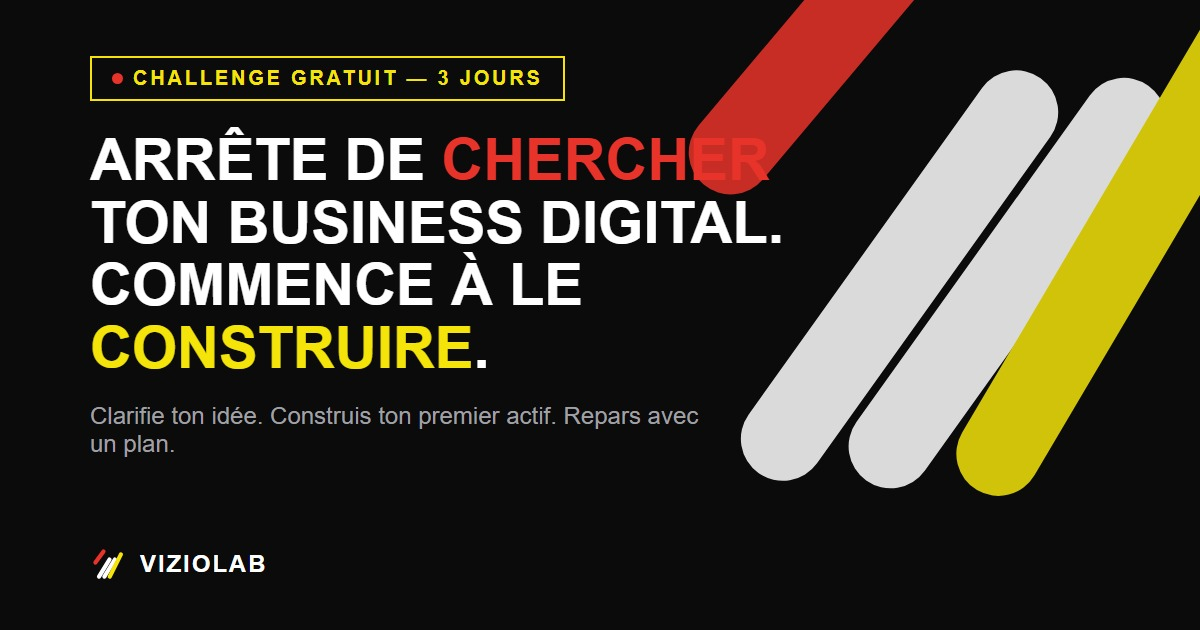
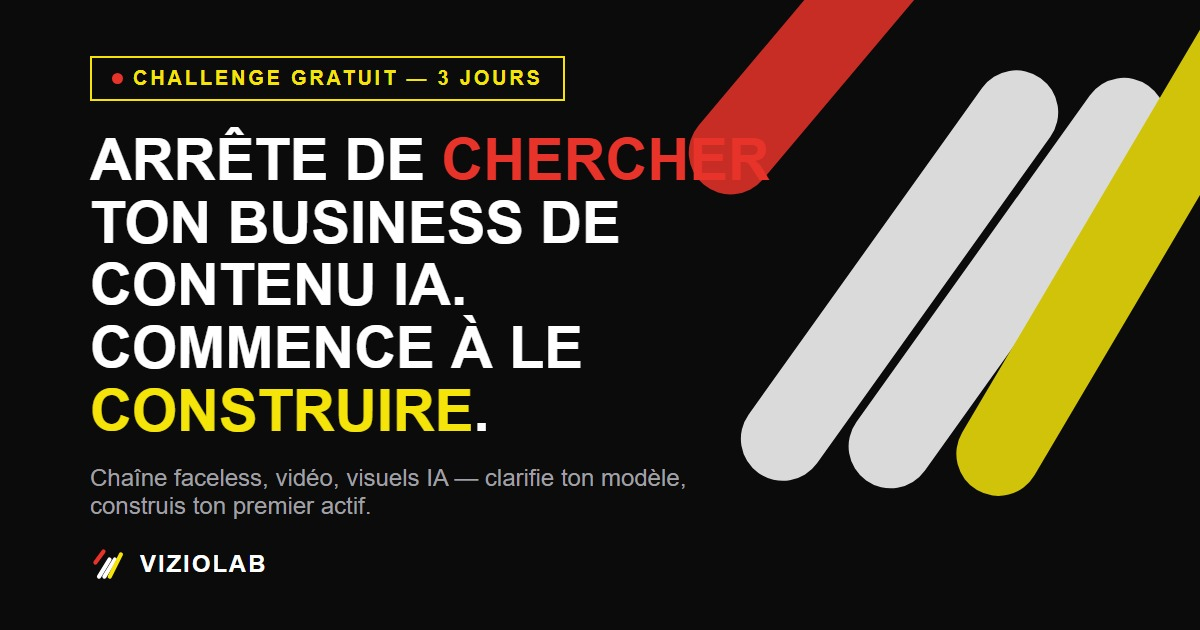
Resserre le positionnement sur le contenu IA (video, faceless, visuels)
Le copy generique "business digital" etait trop flou. Hero, section probleme,
section IA, "pour qui" et FAQ nomment desormais explicitement les leviers reels de
VizioLab : creation video/visuels par IA et business models type chaines YouTube
faceless. Image Open Graph regeneree avec le nouveau headline.

Changed region(s): [[0.0617, 0.3921, 0.5858, 0.8143], [0.4933, 0.3016, 0.6475, 0.3921]]

diff --git a/index.html b/index.html
@@ -3,13 +3,13 @@
 <head>
 <meta charset="UTF-8">
 <meta name="viewport" content="width=device-width, initial-scale=1.0">
-<title>Challenge VizioLab — 3 jours pour construire ton projet digital</title>
-<meta name="description" content="Challenge gratuit de 3 jours : clarifie ton idée, construis ton premier actif digital avec l'IA et repars avec une feuille de route concrète. 100% en ligne, 90 minutes par jour.">
+<title>Challenge VizioLab — 3 jours pour lancer ton business de contenu IA</title>
+<meta name="description" content="Challenge gratuit de 3 jours : clarifie ton modèle (chaîne YouTube faceless, contenu vidéo, visuels IA), construis ton premier actif avec l'IA et repars avec une feuille de route. 100% en ligne, 90 minutes par jour.">
 <link rel="canonical" href="https://viziolab.example/">
 
 <meta property="og:type" content="website">
-<meta property="og:title" content="Challenge VizioLab — 3 jours pour construire ton projet digital">
-<meta property="og:description" content="En 3 jours, clarifie ton idée, construis ton premier actif digital et repars avec une feuille de route concrète pour passer à l'action avec l'IA.">
+<meta property="og:title" content="Challenge VizioLab — 3 jours pour lancer ton business de contenu IA">
+<meta property="og:description" content="En 3 jours, clarifie ton modèle (faceless, vidéo, visuels), construis ton premier actif avec l'IA et repars avec une feuille de route concrète.">
 <meta property="og:image" content="/assets/og-image.jpg">
 <meta property="og:locale" content="fr_FR">
 <meta name="twitter:card" content="summary_large_image">
@@ -72,11 +72,11 @@
   <div class="relative mx-auto max-w-3xl text-center">
     <span class="badge-live mx-auto"><span class="badge-live__dot"></span>Challenge gratuit — 3 jours</span>
     <h1 class="mt-6 font-display text-4xl uppercase leading-[1.08] tracking-tight sm:text-6xl">
-      Arrête de <span class="text-viz-red">chercher</span> ton business digital.<br>
+      Arrête de <span class="text-viz-red">chercher</span> ton business de contenu IA.<br>
       Commence à le <span class="text-viz-yellow">construire</span>.
     </h1>
     <p class="mx-auto mt-6 max-w-xl font-body text-lg text-viz-fog">
-      En 3 jours, passe de 10 idées dans ta tête à 1 projet entre tes mains&nbsp;: clarifie ton idée, construis ton premier actif digital, et découvre comment utiliser l'IA pour accélérer ton passage à l'action.
+      En 3 jours, passe de 10 idées de business IA (chaîne YouTube faceless, contenu vidéo, visuels générés par IA...) à 1 projet entre tes mains&nbsp;: clarifie ton modèle, construis ton premier actif, et repars avec un plan d'action.
     </p>
     <div class="mt-8 flex justify-center">
       <button type="button" class="btn-primary text-base" data-open-form data-track="cta_click" data-track-label="hero">Je rejoins le challenge gratuit</button>
@@ -93,16 +93,16 @@
     </h2>
     <ul class="mt-10 space-y-4">
       <li class="flex items-start gap-4 border-l-2 border-viz-red/60 bg-white/[0.02] px-4 py-3">
-        <span class="font-body text-viz-fog">Tu regardes des vidéos sur le business digital, mais tu ne passes pas à l'action.</span>
+        <span class="font-body text-viz-fog">Tu regardes des chaînes YouTube faceless ou des comptes IA qui cartonnent, mais tu ne sais pas par où commencer pour reproduire ça.</span>
       </li>
       <li class="flex items-start gap-4 border-l-2 border-viz-red/60 bg-white/[0.02] px-4 py-3">
-        <span class="font-body text-viz-fog">Tu as 10 idées et tu ne sais pas laquelle choisir.</span>
+        <span class="font-body text-viz-fog">Tu as 10 idées de business IA (vidéo, visuels, contenu) et tu ne sais pas laquelle choisir.</span>
       </li>
       <li class="flex items-start gap-4 border-l-2 border-viz-red/60 bg-white/[0.02] px-4 py-3">
         <span class="font-body text-viz-fog">Tu commences plusieurs projets et tu n'en termines aucun.</span>
       </li>
       <li class="flex items-start gap-4 border-l-2 border-viz-red/60 bg-white/[0.02] px-4 py-3">
-        <span class="font-body text-viz-fog">Tu veux utiliser l'IA, mais tu ne sais pas quoi automatiser.</span>
+        <span class="font-body text-viz-fog">Tu veux utiliser l'IA pour créer du contenu, mais tu ne sais pas quels outils ni quel workflow.</span>
       </li>
       <li class="flex items-start gap-4 border-l-2 border-viz-red/60 bg-white/[0.02] px-4 py-3">
         <span class="font-body text-viz-fog">Tu publies sur les réseaux sans véritable stratégie.</span>
@@ -183,7 +183,7 @@
       <div class="viz-card flex-1 p-6">
         <p class="eyebrow text-white/70">Jour 2 — Construis</p>
         <h3 class="mt-2 font-heading text-xl font-bold">Transforme ton idée en premier actif digital</h3>
-        <p class="mt-4 font-body text-sm text-white/75">Tu apprends à utiliser l'IA pour transformer ton idée en premier livrable concret&nbsp;: contenu, offre, produit digital, concept YouTube, branding, service ou prototype, selon ton projet.</p>
+        <p class="mt-4 font-body text-sm text-white/75">Tu apprends à utiliser l'IA pour transformer ton idée en premier livrable concret&nbsp;: vidéo, concept de chaîne YouTube faceless, visuels, contenu, offre ou prototype, selon ton projet.</p>
         <p class="mt-5 border-t border-white/10 pt-4 font-heading text-sm font-bold text-viz-yellow">Livrable — ton premier actif digital</p>
       </div>
     </div>
@@ -239,14 +239,15 @@
 <section id="ia" class="reveal border-t border-white/10 px-5 py-20">
   <div class="mx-auto max-w-3xl">
     <h2 class="text-center font-heading text-2xl font-bold uppercase sm:text-3xl">L'IA comme accélérateur, pas comme raccourci</h2>
+    <p class="mx-auto mt-3 max-w-xl text-center font-body text-viz-fog">Contenu vidéo, chaînes faceless, visuels, montage — l'IA change ce que tu peux produire seul, en peu de temps.</p>
     <div class="mt-10 grid grid-cols-2 gap-3 sm:grid-cols-4">
-      <div class="border border-white/10 bg-white/[0.02] p-4 text-center font-body text-sm text-white/80">Trouver des angles</div>
-      <div class="border border-white/10 bg-white/[0.02] p-4 text-center font-body text-sm text-white/80">Structurer une idée</div>
-      <div class="border border-white/10 bg-white/[0.02] p-4 text-center font-body text-sm text-white/80">Produire du contenu</div>
-      <div class="border border-white/10 bg-white/[0.02] p-4 text-center font-body text-sm text-white/80">Créer des visuels</div>
+      <div class="border border-white/10 bg-white/[0.02] p-4 text-center font-body text-sm text-white/80">Écrire des scripts vidéo</div>
+      <div class="border border-white/10 bg-white/[0.02] p-4 text-center font-body text-sm text-white/80">Générer des voix off</div>
+      <div class="border border-white/10 bg-white/[0.02] p-4 text-center font-body text-sm text-white/80">Créer des visuels et vignettes</div>
+      <div class="border border-white/10 bg-white/[0.02] p-4 text-center font-body text-sm text-white/80">Structurer un concept de chaîne</div>
       <div class="border border-white/10 bg-white/[0.02] p-4 text-center font-body text-sm text-white/80">Construire des offres</div>
       <div class="border border-white/10 bg-white/[0.02] p-4 text-center font-body text-sm text-white/80">Gagner du temps</div>
-      <div class="col-span-2 border border-white/10 bg-white/[0.02] p-4 text-center font-body text-sm text-white/80 sm:col-span-2">Automatiser certaines tâches</div>
+      <div class="col-span-2 border border-white/10 bg-white/[0.02] p-4 text-center font-body text-sm text-white/80 sm:col-span-2">Automatiser montage et publication</div>
     </div>
     <p class="mt-8 border-l-2 border-viz-yellow/60 bg-viz-yellow/[0.05] p-5 font-body text-white/85">
       L'objectif n'est pas de remplacer l'humain par l'IA. L'objectif est de te permettre de construire plus vite et plus intelligemment.
@@ -264,8 +265,8 @@
         <ul class="mt-4 space-y-3 font-body text-white/80">
           <li>✅ Tu veux te lancer dans le digital.</li>
           <li>✅ Tu as une idée mais tu ne sais pas comment la structurer.</li>
-          <li>✅ Tu veux utiliser l'IA.</li>
-          <li>✅ Tu veux créer du contenu.</li>
+          <li>✅ Tu veux utiliser l'IA pour créer (vidéo, visuels, contenu).</li>
+          <li>✅ Tu veux lancer une chaîne YouTube faceless ou un compte IA.</li>
           <li>✅ Tu veux développer une activité en ligne.</li>
           <li>✅ Tu veux transformer une compétence en offre.</li>
           <li>✅ Tu veux enfin passer à l'action.</li>
@@ -449,6 +450,14 @@
           <span class="faq-chevron text-xl text-viz-fog">+</span>
         </button>
         <div class="faq-panel"><div class="pb-5 font-body text-white/70">Oui, le challenge est conçu pour être accessible aux débutants comme à ceux qui ont déjà commencé.</div></div>
+      </div>
+
+      <div>
+        <button type="button" class="faq-trigger flex w-full items-center justify-between py-5 text-left font-heading font-bold" aria-expanded="false">
+          Faut-il savoir filmer ou monter des vidéos ?
+          <span class="faq-chevron text-xl text-viz-fog">+</span>
+        </button>
+        <div class="faq-panel"><div class="pb-5 font-body text-white/70">Non. L'approche est pensée pour du contenu assisté par l'IA (scripts, voix off, visuels, montage) — pas besoin de compétences de tournage ou de montage classique.</div></div>
       </div>
 
       <div>

diff --git a/COPYWRITING.md b/COPYWRITING.md
@@ -3,6 +3,8 @@
 Angle retenu : **B — Preuve par la construction**, avec l'IA comme accélérateur (angle C, section 6) et la clarté (angle A) comme sous-texte émotionnel du hero et de la section problème.
 Headline retenue : variante n°1, enrichie par le contraste "10 idées → 1 projet" en sous-headline.
 
+**Repositionnement niche (post-lancement)** : VizioLab s'appuie spécifiquement sur les leviers IA vidéo et IA graphisme, et sur des business models comme les chaînes YouTube faceless / comptes IA. Le copy générique "business digital" a été resserré partout sur ce positionnement (hero, problème, IA, pour qui, FAQ) — voir sections mises à jour ci-dessous.
+
 Toutes les preuves sociales, chiffres, dates et places disponibles sont en placeholder `[À COMPLÉTER]` — rien n'est inventé.
 
 ---
@@ -13,10 +15,10 @@ Toutes les preuves sociales, chiffres, dates et places disponibles sont en place
 🔥 CHALLENGE GRATUIT — 3 JOURS
 
 **Headline**
-3 JOURS POUR ARRÊTER DE CHERCHER TON BUSINESS DIGITAL ET COMMENCER À LE CONSTRUIRE.
+ARRÊTE DE CHERCHER TON BUSINESS DE CONTENU IA. COMMENCE À LE CONSTRUIRE.
 
 **Sous-headline**
-En 3 jours, passe de 10 idées dans ta tête à 1 projet entre tes mains : clarifie ton idée, construis ton premier actif digital, et découvre comment utiliser l'IA pour accélérer ton passage à l'action.
+En 3 jours, passe de 10 idées de business IA (chaîne YouTube faceless, contenu vidéo, visuels générés par IA...) à 1 projet entre tes mains : clarifie ton modèle, construis ton premier actif, et repars avec un plan d'action.
 
 **CTA principal**
 JE REJOINS LE CHALLENGE GRATUIT
@@ -32,10 +34,10 @@ JE REJOINS LE CHALLENGE GRATUIT
 Tu n'as probablement pas un problème d'idées. Tu as un problème de direction.
 
 **Symptômes**
-- Tu regardes des vidéos sur le business digital, mais tu ne passes pas à l'action.
-- Tu as 10 idées et tu ne sais pas laquelle choisir.
+- Tu regardes des chaînes YouTube faceless ou des comptes IA qui cartonnent, mais tu ne sais pas par où commencer pour reproduire ça.
+- Tu as 10 idées de business IA (vidéo, visuels, contenu) et tu ne sais pas laquelle choisir.
 - Tu commences plusieurs projets et tu n'en termines aucun.
-- Tu veux utiliser l'IA, mais tu ne sais pas quoi automatiser.
+- Tu veux utiliser l'IA pour créer du contenu, mais tu ne sais pas quels outils ni quel workflow.
 - Tu publies sur les réseaux sans véritable stratégie.
 - Tu veux gagner de l'argent en ligne, mais tu ne sais pas par où commencer.
 - Tu apprends beaucoup, mais tu construis peu.
@@ -87,7 +89,7 @@ Tu vas :
 ### JOUR 2 — CONSTRUIS
 **Transforme ton idée en premier actif digital**
 
-Tu vas apprendre à utiliser l'IA pour transformer ton idée en premier livrable concret : contenu, offre, produit digital, concept YouTube, branding, service ou prototype, selon ton projet.
+Tu vas apprendre à utiliser l'IA pour transformer ton idée en premier livrable concret : vidéo, concept de chaîne YouTube faceless, visuels, contenu, offre ou prototype, selon ton projet.
 
 **Livrable : ton premier actif digital.**
 
@@ -123,14 +125,14 @@ Tu ne repars pas seulement avec des notes. Tu repars avec quelque chose de const
 L'IA comme accélérateur, pas comme raccourci.
 
 **Corps**
-Pendant le challenge, tu vas découvrir comment utiliser l'IA pour :
-- trouver des angles ;
-- structurer une idée ;
-- produire du contenu ;
-- créer des visuels ;
+Contenu vidéo, chaînes faceless, visuels, montage — l'IA change ce que tu peux produire seul, en peu de temps. Pendant le challenge, tu vas découvrir comment utiliser l'IA pour :
+- écrire des scripts vidéo ;
+- générer des voix off ;
+- créer des visuels et vignettes ;
+- structurer un concept de chaîne ;
 - construire des offres ;
 - gagner du temps ;
-- automatiser certaines tâches.
+- automatiser montage et publication.
 
 **Message**
 L'objectif n'est pas de remplacer l'humain par l'IA. L'objectif est de te permettre de construire plus vite et plus intelligemment.
@@ -142,8 +144,8 @@ L'objectif n'est pas de remplacer l'humain par l'IA. L'objectif est de te permet
 **CE CHALLENGE EST POUR TOI SI :**
 - ✅ Tu veux te lancer dans le digital.
 - ✅ Tu as une idée mais tu ne sais pas comment la structurer.
-- ✅ Tu veux utiliser l'IA.
-- ✅ Tu veux créer du contenu.
+- ✅ Tu veux utiliser l'IA pour créer (vidéo, visuels, contenu).
+- ✅ Tu veux lancer une chaîne YouTube faceless ou un compte IA.
 - ✅ Tu veux développer une activité en ligne.
 - ✅ Tu veux transformer une compétence en offre.
 - ✅ Tu veux enfin passer à l'action.
@@ -286,6 +288,9 @@ Non, aucune connaissance préalable n'est nécessaire. Tu apprends à t'en servi
 
 **Est-ce adapté aux débutants ?**
 Oui, le challenge est conçu pour être accessible aux débutants comme à ceux qui ont déjà commencé.
+
+**Faut-il savoir filmer ou monter des vidéos ?**
+Non. L'approche est pensée pour du contenu assisté par l'IA (scripts, voix off, visuels, montage) — pas besoin de compétences de tournage ou de montage classique.
 
 **Combien de temps dois-je prévoir ?**
 Environ 90 minutes par jour, pendant 3 jours.
